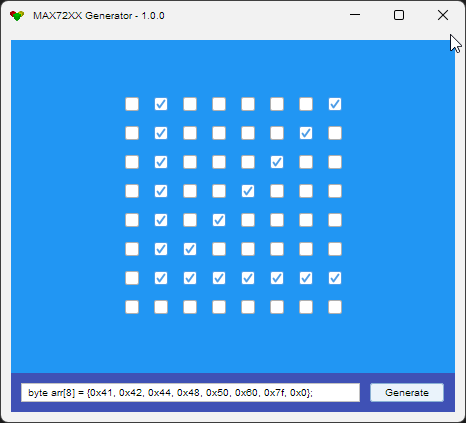
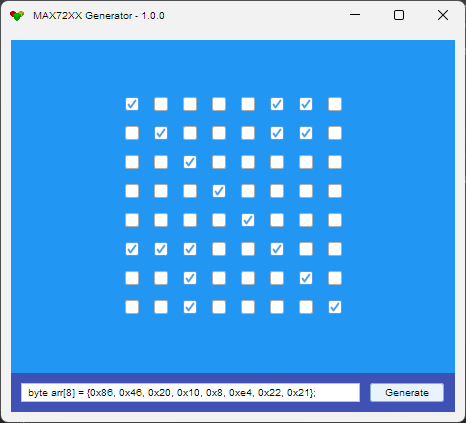
README.md Update

diff --git a/src/main/java/com/nc/max/controller/MaxController.java b/src/main/java/com/nc/max/controller/MaxController.java
@@ -4,8 +4,8 @@
  */
 package com.nc.max.controller;
 
-import com.fx.swing.tools.LayoutFunctions;
 import com.nc.max.Globals;
+import com.nc.max.tools.LayoutFunctions;
 import java.awt.BorderLayout;
 import java.awt.Component;
 import java.awt.GridBagConstraints;

diff --git a/README.md b/README.md
@@ -1,18 +1,43 @@
 # Arduino Mega 2560 Byte Array Generator 1.0.0
 
-![image](https://github.com/NeuralCortex/MAX72XX/blob/main/images/max72xx.png)
+![MAX72XX Image](https://github.com/NeuralCortex/MAX72XX/blob/main/images/max72xx.png)
 
 ## Description
 
-This program allows the user to graphically create byte arrays for use with the Arduino Mega 2560 controller in combination with the MAX72XX device.</br>
-To use the app outside NetBeans, copy the folders “lib, images” together with the jar file from the target directory in the NetBeans project into a folder of your choice.</br>
-As this is a Swing project, the app can then be started simply by double-clicking on the jar file.</br>
-An Ino test file is included in the project folder.
+This Swing-based application enables users to graphically create byte arrays for the Arduino Mega 2560 controller in combination with the MAX72XX device. 
+
+To run the application outside Apache NetBeans, copy the `lib` and `images` folders, along with the JAR file from the `target` directory of the NetBeans project, to a folder of your choice. As a Swing application, you can launch it by double-clicking the JAR file. An `.ino` test file is included in the project folder for testing with the Arduino IDE.
 
 ## Requirements
 
-1. [Apache NetBeans IDE 25](https://netbeans.apache.org/front/main/index.html)
-2. [Arduino IDE 2.3.6](https://www.arduino.cc/en/software/)
-3. Arduino Mega 2560 Controller or similar
-4. MAX72XX device
-5. USB cable
+- [Apache NetBeans IDE 27](https://netbeans.apache.org/front/main/index.html) (for development)
+- [Arduino IDE 2.3.6](https://www.arduino.cc/en/software/)
+- Arduino Mega 2560 controller (or compatible)
+- MAX72XX device
+- USB cable
+
+## Installation
+
+1. **Set up the development environment**:
+   - Install Apache NetBeans IDE 25 for project development (optional for running the JAR).
+   - Install Arduino IDE 2.3.6 for uploading the `.ino` test file to the Arduino Mega 2560.
+2. **Copy the application files**:
+   - Locate the `target` directory in the NetBeans project.
+   - Copy the `lib`, `images`, and JAR file (e.g., `MAX7219-1.0.0.jar`) to a directory of your choice.
+3. **Connect hardware**:
+   - Connect the MAX72XX device to the Arduino Mega 2560.
+   - Use a USB cable to connect the Arduino Mega 2560 to your computer.
+
+## Using the Application
+
+1. Launch the application by double-clicking the JAR file or using the provided scripts.
+2. Use the graphical interface to create byte arrays for the MAX72XX device.
+3. Export or copy the generated byte arrays to the `.ino` test file or your Arduino sketch.
+4. Upload the sketch to the Arduino Mega 2560 using the Arduino IDE.
+
+## Troubleshooting
+
+- **JAR File Not Running**: Ensure Java is installed and the `lib` and `images` folders are in the same directory as the JAR file.
+- **Arduino Upload Issues**: Verify the Arduino Mega 2560 is connected via USB and selected in the Arduino IDE.
+- **MAX72XX Not Responding**: Check the wiring between the MAX72XX device and the Arduino Mega 2560.
+- **Missing Dependencies**: Ensure all required libraries for the `.ino` file are installed in the Arduino IDE.
